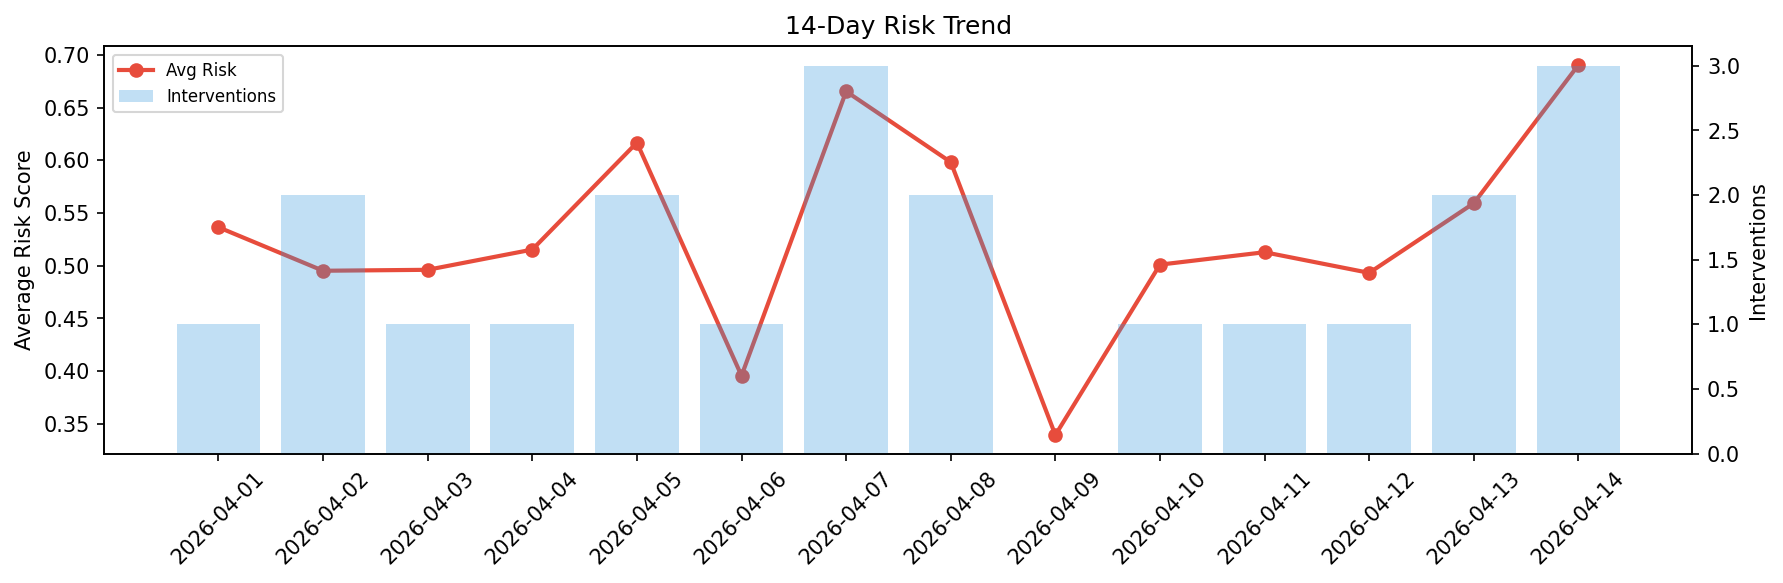
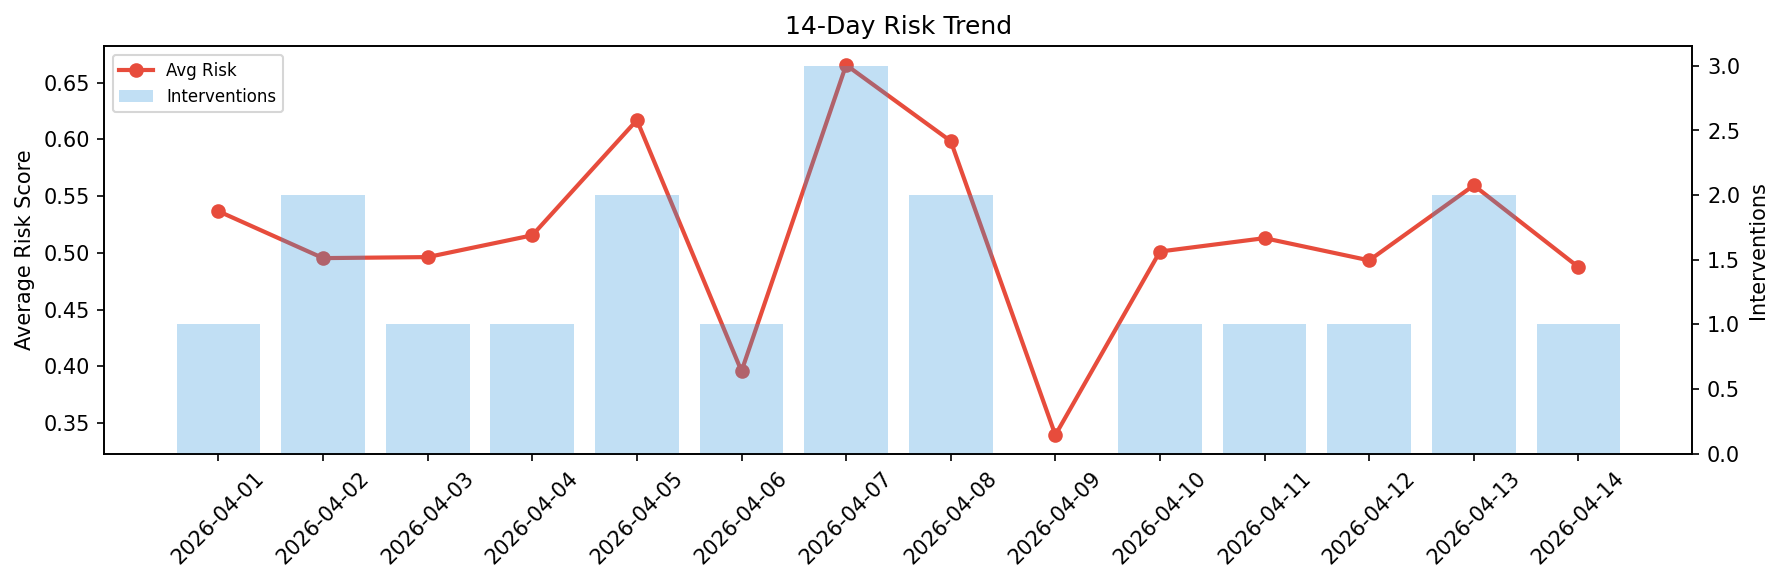
agent-improvement: daily cycle 2026-04-14T21:06

diff --git a/logs/2026-04-14.md b/logs/2026-04-14.md
@@ -1,6 +1,6 @@
 # Agent Improvement Report — 2026-04-14
 
-**Cycle ID:** `2f7ac5e3` | **Avg Risk:** 0.6906 | **Interventions:** 3/4
+**Cycle ID:** `bc83d809` | **Avg Risk:** 0.4874 | **Interventions:** 1/4
 
 ![Dashboard](2026-04-14_dashboard.png)
 
@@ -10,18 +10,18 @@
 
 | Domain | Risk Score | Decision | Alerts |
 |--------|-----------|----------|--------|
-| code_review | 0.685 | intervene | coverage |
-| incident_response | 0.3312 | monitor | none |
-| data_pipeline | 0.9147 | intervene | freshness, schema_drift, volume_anomaly |
-| deployment | 0.8315 | intervene | rollback_rate, canary_error, latency_p99 |
+| code_review | 0.7387 | intervene | complexity, coverage |
+| incident_response | 0.4387 | monitor | none |
+| data_pipeline | 0.353 | monitor | none |
+| deployment | 0.4191 | monitor | rollback_rate |
 
 ## Delta vs Yesterday
 
 | Domain | Today | Yesterday | Change |
 |--------|-------|-----------|--------|
-| code_review | 0.685 | 0.7675 | 📉 -10.7% |
-| incident_response | 0.3312 | 0.2677 | 📈 23.7% |
-| data_pipeline | 0.9147 | 0.6418 | 📈 42.5% |
-| deployment | 0.8315 | 0.5605 | 📈 48.3% |
+| code_review | 0.7387 | 0.7675 | 📉 -3.8% |
+| incident_response | 0.4387 | 0.2677 | 📈 63.9% |
+| data_pipeline | 0.353 | 0.6418 | 📉 -45.0% |
+| deployment | 0.4191 | 0.5605 | 📉 -25.2% |
 
-**Refinement:** `{'adjustment': 'tighten_thresholds', 'trend': 'degrading', 'window': 4}`
+**Refinement:** `{'adjustment': 'maintain', 'trend': 'improving', 'window': 4}`
